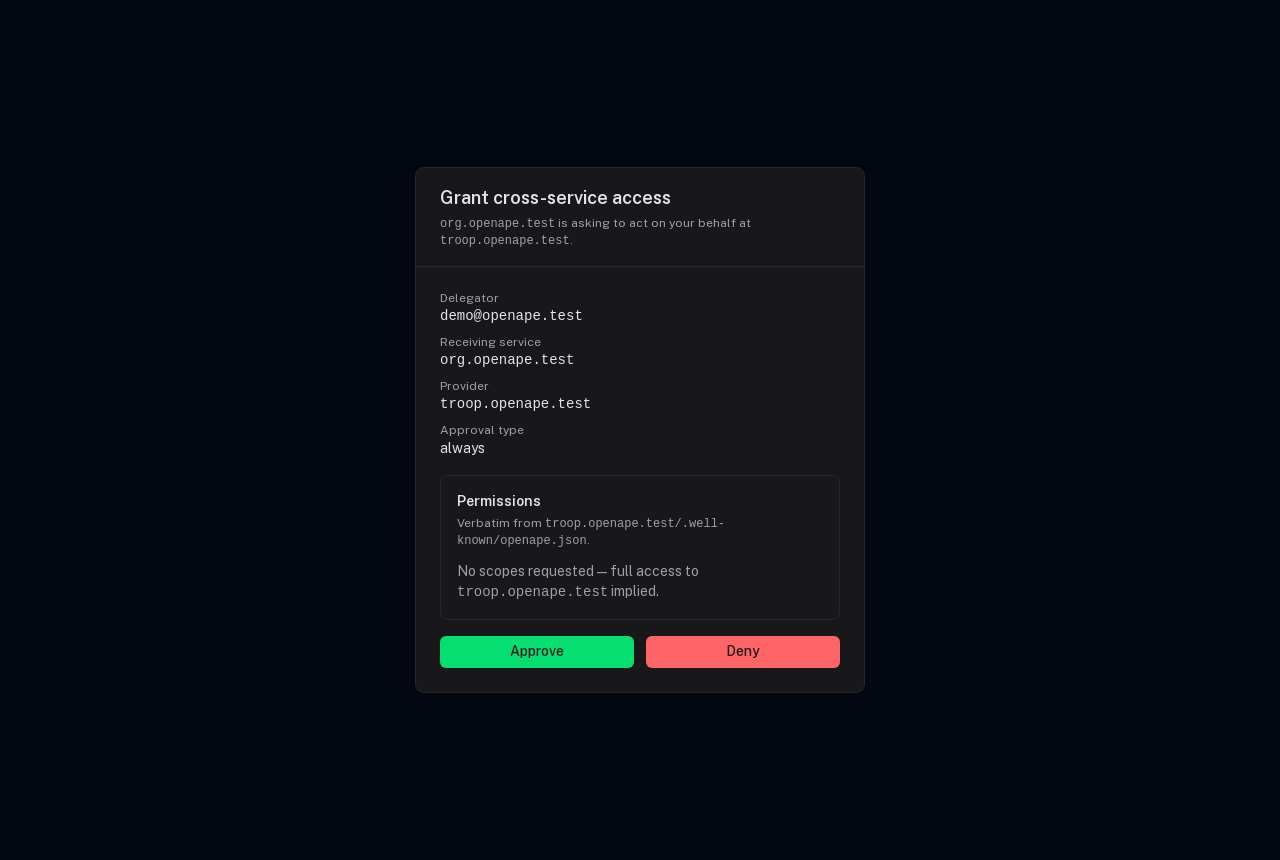
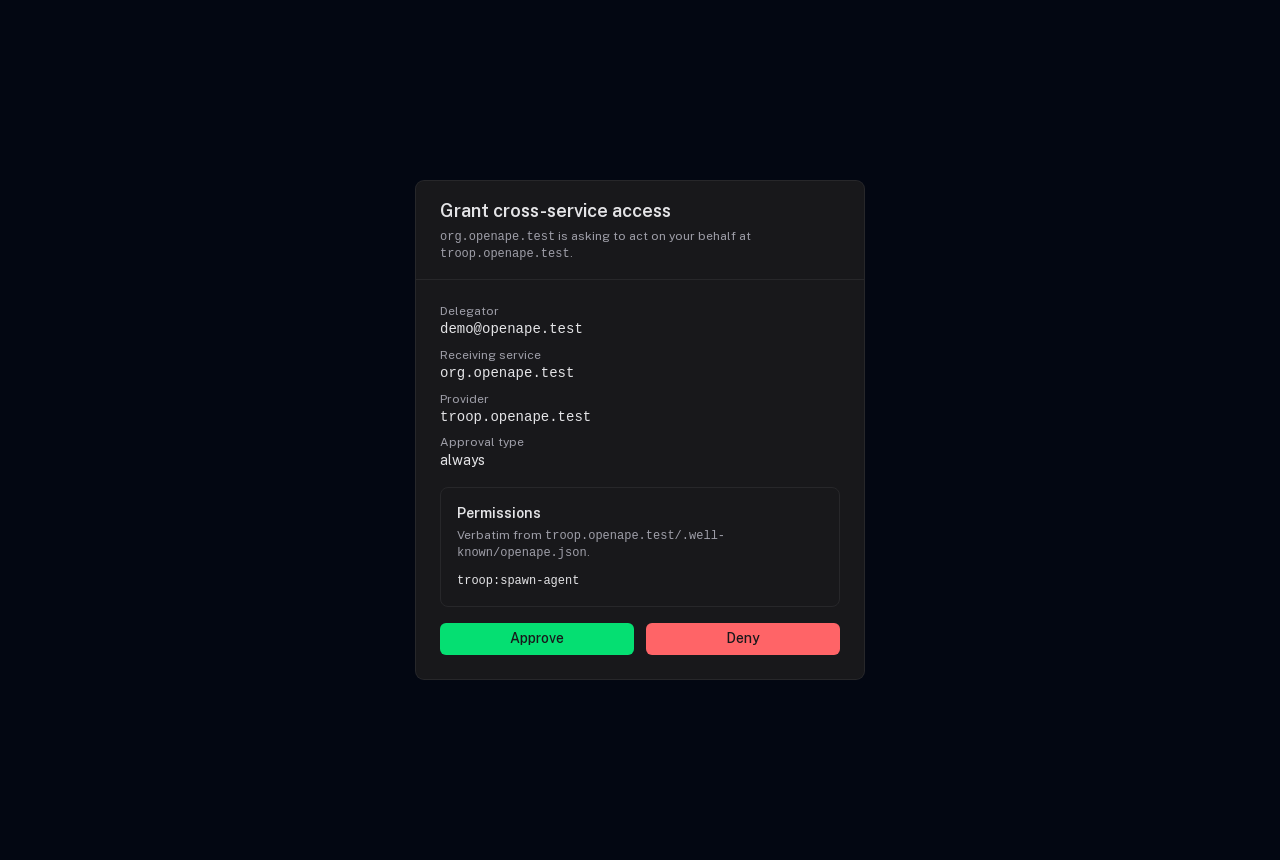
fix(org,idp): sanitize agent name + honest consent scope display
1) AddMemberDialog live-sanitizes the agent name to troop's
   /^[a-z][a-z0-9-]{0,23}$/ (e.g. "Ada" → "ada") so a natural name no
   longer fails with an opaque 400 deep in the spawn flow.
2) grant-cross-sp consent now shows EXACTLY the requested scopes
   (catalog only enriches with descriptions). A missing/empty scope
   catalog no longer hides the requested scope or falsely implies full
   access; 'full access' shows only for a genuinely empty request, and
   Approve is blocked only when there's truly nothing concrete to grant.

Guide consent screenshot updated — now shows troop:spawn-agent.

diff --git a/modules/nuxt-auth-idp/src/runtime/pages/grant-cross-sp.vue b/modules/nuxt-auth-idp/src/runtime/pages/grant-cross-sp.vue
@@ -71,16 +71,20 @@ const { data: catalog, pending: catalogLoading, error: catalogError } = useFetch
 // the full surface. The intersection is on `id`; entries the Receiver
 // asked for that the Provider doesn't publish are surfaced separately
 // so the Owner sees the mismatch instead of silently dropping them.
-const scopeRows = computed(() => {
-  const all = catalog.value?.scopes ?? []
-  if (!requestedScopes.value.length) return all
-  return all.filter(s => requestedScopes.value.includes(s.id))
+// What the Owner is actually granting. When specific scopes were requested we
+// show EXACTLY those — enriched with the Provider's catalog description where
+// available, bare id otherwise — so an unavailable/empty catalog can never hide
+// a requested scope or misleadingly imply broader access. Only a genuinely
+// empty request means "full access".
+const displayScopes = computed(() => {
+  const byId = new Map((catalog.value?.scopes ?? []).map(s => [s.id, s]))
+  if (requestedScopes.value.length)
+    return requestedScopes.value.map(id => byId.get(id) ?? { id, description: '' })
+  return catalog.value?.scopes ?? []
 })
-const unknownScopes = computed(() => {
-  if (!catalog.value?.scopes || !requestedScopes.value.length) return []
-  const known = new Set(catalog.value.scopes.map(s => s.id))
-  return requestedScopes.value.filter(id => !known.has(id))
-})
+// True only when the consent screen has nothing concrete to show: no explicit
+// scopes AND the catalog couldn't be loaded — granting that is "full access blind".
+const blindFullAccess = computed(() => !requestedScopes.value.length && !!catalogError.value)
 
 const processing = ref(false)
 const submitError = ref('')
@@ -203,22 +207,16 @@ async function handleDeny() {
           <div v-if="catalogLoading" class="text-sm text-muted">
             Loading scope catalog…
           </div>
-          <UAlert
-            v-else-if="catalogError"
-            color="error"
-            :title="`Could not load scopes from ${audience}`"
-            :description="catalogError?.data?.statusMessage || catalogError?.message || ''"
-          />
-          <ul v-else-if="scopeRows.length" class="space-y-2">
+          <ul v-else-if="displayScopes.length" class="space-y-2">
             <li
-              v-for="scope in scopeRows"
+              v-for="scope in displayScopes"
               :key="scope.id"
               class="text-sm"
             >
               <p class="font-mono text-xs text-emerald-400 break-all">
                 {{ scope.id }}
               </p>
-              <p class="text-muted mt-0.5">
+              <p v-if="scope.description" class="text-muted mt-0.5">
                 {{ scope.description }}
               </p>
             </li>
@@ -227,19 +225,11 @@ async function handleDeny() {
             No scopes requested — full access to <span class="font-mono">{{ audience }}</span> implied.
           </p>
 
-          <UAlert
-            v-if="unknownScopes.length"
-            color="warning"
-            title="Some requested scopes are not in the Provider's catalog"
-          >
-            <template #description>
-              <ul class="font-mono text-xs mt-1">
-                <li v-for="s in unknownScopes" :key="s">
-                  {{ s }}
-                </li>
-              </ul>
-            </template>
-          </UAlert>
+          <!-- Descriptions are nice-to-have; a missing catalog never hides what's
+               granted (displayScopes shows the ids), so this is just a note. -->
+          <p v-if="catalogError && displayScopes.length" class="text-xs text-muted">
+            Couldn't load scope descriptions from <span class="font-mono">{{ audience }}</span> — the ids above are exactly what you're granting.
+          </p>
         </div>
 
         <UAlert
@@ -252,7 +242,7 @@ async function handleDeny() {
           <UButton
             color="success"
             :loading="processing"
-            :disabled="!!catalogError"
+            :disabled="blindFullAccess"
             block
             class="flex-1"
             @click="handleApprove"

diff --git a/apps/openape-org/app/components/AddMemberDialog.vue b/apps/openape-org/app/components/AddMemberDialog.vue
@@ -22,6 +22,15 @@ watch(open, (now) => {
   error.value = ''
 })
 
+// The agent name is also the OS username + troop agent slug, which troop's
+// spawn-intent enforces as /^[a-z][a-z0-9-]{0,23}$/. Sanitize live so a name
+// like "Ada Lovelace" → "adalovelace" instead of failing with a 400 deep in
+// the spawn flow (lowercase, drop invalid chars, must start with a letter, ≤24).
+watch(() => form.value.agent_name, (v) => {
+  const clean = v.toLowerCase().replace(/[^a-z0-9-]/g, '').replace(/^[^a-z]+/, '').slice(0, 24)
+  if (clean !== v) form.value.agent_name = clean
+})
+
 const teamleadOptions = computed(() => {
   const tls = props.existingMembers.filter(m => m.role === 'teamlead')
   return [
